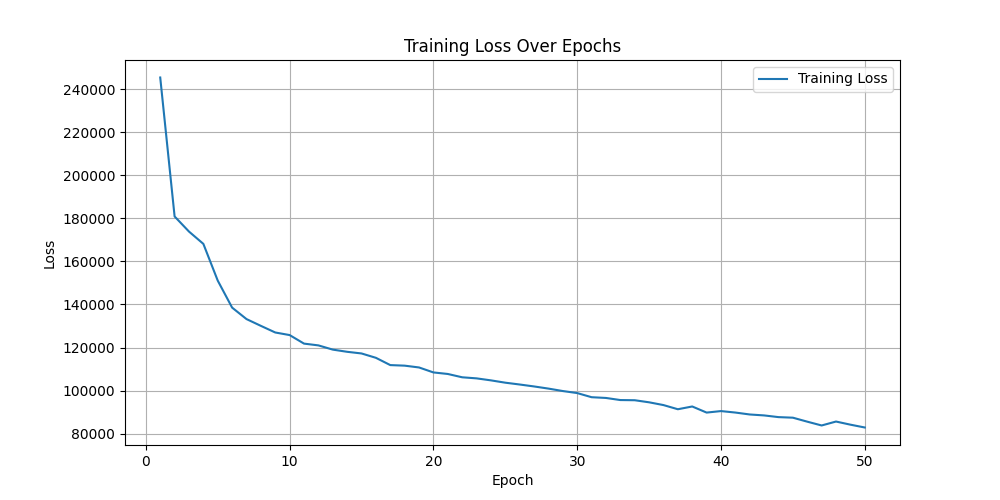
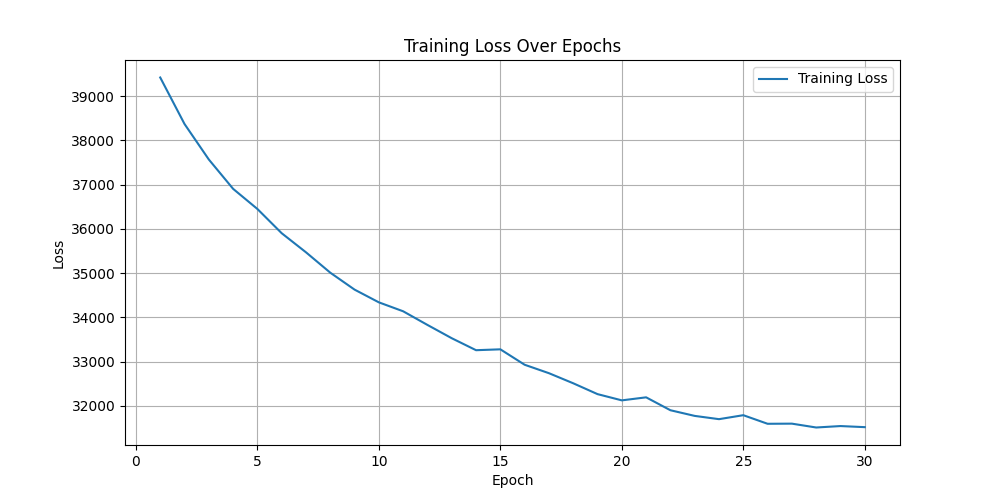
update the vae model

diff --git a/modified_neural_networks.py b/modified_neural_networks.py
@@ -57,7 +57,7 @@ class Decoder(nn.Module):
 
 
 class AutoEncoder(nn.Module):
-    def __init__(self, num_question, k=100, hidden_dim=60):
+    def __init__(self, num_question, k=200, hidden_dim=180):
         super(AutoEncoder, self).__init__()
         self.encoder = Encoder(num_question, k, hidden_dim)
         self.decoder = Decoder(k, num_question, hidden_dim)
@@ -98,9 +98,9 @@ def train(model, lr, train_data, zero_train_data, valid_data, num_epoch):
             optimizer.zero_grad()
             reconstructed, mu, log_var = model(inputs)
 
-            # Mask the target to exclude missing entries
-            nan_mask = np.isnan(train_data[user_id].unsqueeze(0).numpy())
-            target[nan_mask] = reconstructed[nan_mask]
+            nan_mask = torch.logical_not(torch.isnan(train_data[user_id].unsqueeze(0)))
+            reconstructed = reconstructed[nan_mask]
+            target = target[nan_mask]
 
             loss = vae_loss(reconstructed, target, mu, log_var)
             loss.backward()
@@ -116,7 +116,7 @@ def train(model, lr, train_data, zero_train_data, valid_data, num_epoch):
     plot_metrics(train_losses, validation_accs)
 
 
-def evaluate(model, train_data, valid_data):
+def evaluate(model, train_data, valid_data, threshold=0.5):
     """Evaluate the valid_data on the current model, including sensitivity and specificity.
 
     :param model: Module
@@ -138,7 +138,7 @@ def evaluate(model, train_data, valid_data):
         inputs = Variable(train_data[u]).unsqueeze(0)
         output, _, _ = model(inputs)
 
-        guess = output[0][valid_data["question_id"][i]].item() >= 0.50
+        guess = output[0][valid_data["question_id"][i]].item() >= threshold
         actual = valid_data["is_correct"][i]
 
         # Evaluate sensitivity and specificity
@@ -169,22 +169,29 @@ def evaluate(model, train_data, valid_data):
 
 def main():
     zero_train_matrix, train_matrix, valid_data, test_data = load_data()
-    lr = 0.0015
-    num_epoch = 50
-    k = 100
-    print(f"\nTraining AutoEncoder with k={k}")
-    model = AutoEncoder(num_question=train_matrix.shape[1], k=k)
+    lr = 0.0001
+    num_epoch = 30
+    k = 200
+    hidden_dim = 180
+    threshold = 0.52
+
+    model = AutoEncoder(num_question=train_matrix.shape[1], k=k, hidden_dim=hidden_dim)
     train(model, lr, train_matrix, zero_train_matrix, valid_data, num_epoch)
-    validation_acc, validation_sensitivity, validation_specificity = evaluate(model, zero_train_matrix, valid_data)
-    print(f"For validation set on k = {k}, validation accuracy = {validation_acc}, validation sensitivity = "
+    validation_acc, validation_sensitivity, validation_specificity = evaluate(model, zero_train_matrix, valid_data, threshold)
+    # if validation_acc > highest_acc:
+    #     highest_acc = validation_acc
+    #     best_lr = lr
+
+    print(f"Validation accuracy = {validation_acc}, validation sensitivity = "
           f"{validation_sensitivity}, validation specificity = {validation_specificity}.")
 
-    test_model = AutoEncoder(num_question=train_matrix.shape[1], k=k)
+    test_model = AutoEncoder(num_question=train_matrix.shape[1], k=k, hidden_dim=hidden_dim)
     train(test_model, lr, train_matrix, zero_train_matrix, valid_data, num_epoch)
-    test_acc, test_sensitivity, test_specificity = evaluate(test_model, zero_train_matrix, test_data)
-    print(f"For test set on k = {k}, test accuracy = {test_acc}, test sensitivity = {test_sensitivity}"
+    test_acc, test_sensitivity, test_specificity = evaluate(test_model, zero_train_matrix, test_data, threshold)
+    print(f"Test accuracy = {test_acc}, test sensitivity = {test_sensitivity}"
           f", test specificity = {test_specificity}.")
 
+    # print(f"Best lr is: {best_lr} with validation accuracy: {highest_acc}")
 
 def plot_metrics(train_losses, validation_accs):
     epochs = range(1, len(train_losses) + 1)
